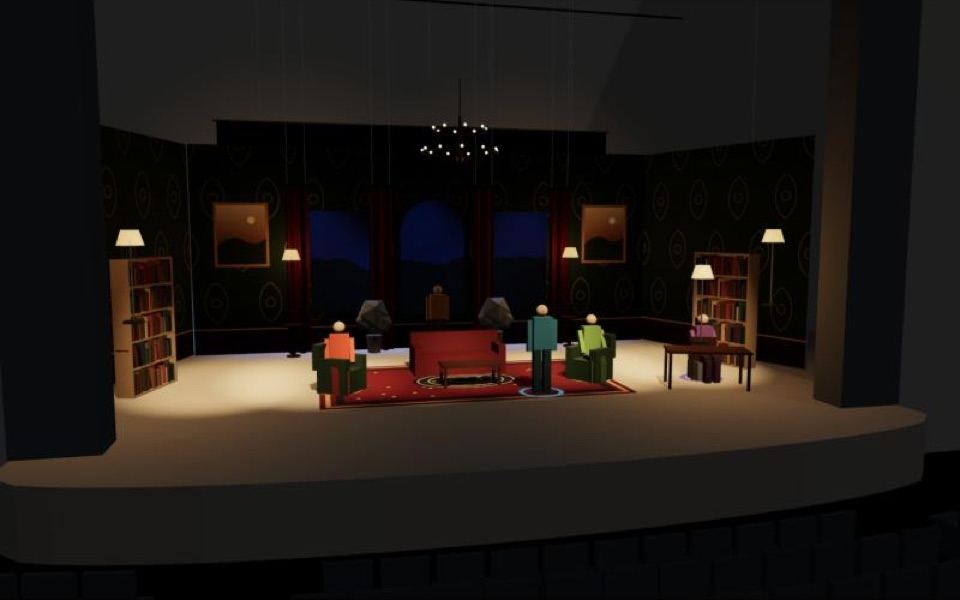
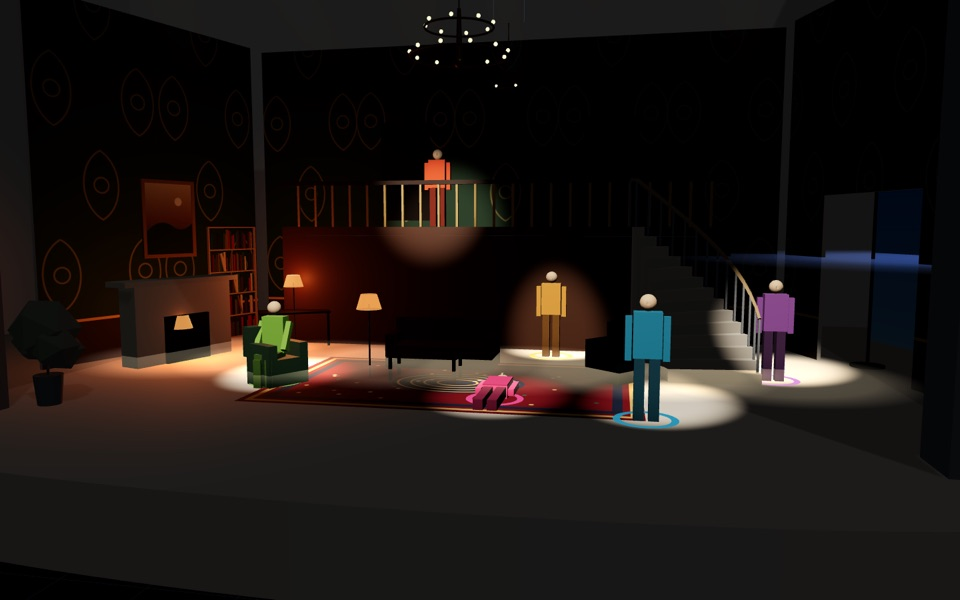
Drawing-room drama becomes a country-house mystery: a gallery and grand stair, a working fire, French windows onto a storm, a body on the rug and four lighting looks. Every performer has their own light so the whole cast reads in every look. New template and landing pictures. The bottom bar's labels

diff --git a/src/starters/showcase.ts b/src/starters/showcase.ts
@@ -15,6 +15,7 @@ import type { FixtureType, Fixture, Vec3 } from '../lighting/types';
 import { blockingActions } from '../blocking/actions';
 import { useBlockingUI } from '../blocking/ui';
 import { useLightsUI } from '../lighting/ui';
+import { aimPoints } from '../lighting/follow';
 import type { ArtKey } from './showcaseArt';
 
 /** Graphic ids for the artwork a showcase asked for. */
@@ -93,6 +94,15 @@ function looks(showName: string) {
   }
   fadeTo(showLook, 0);
   useLightsUI.getState().select(null);
+}
+
+/** Set groups of lights to a state, then keep it as a named look. */
+function stateLook(name: string, groups: [(string | undefined)[], Partial<Fixture>][]) {
+  for (const [ids, change] of groups) {
+    const list = ids.filter((id): id is string => !!id);
+    if (list.length) lightActions.patch(list, change);
+  }
+  return lookActions.save(name);
 }
 
 const ROW = <T,>(n: number, f: (i: number) => T) => Array.from({ length: n }, (_, i) => f(i));
@@ -295,54 +305,89 @@ const sea: ShowcaseScene = {
 const drawingRoom: ShowcaseScene = {
   id: 'drawing-room',
   title: 'Drawing-room drama',
-  blurb: 'A box set in damask wallpaper: bookshelves, chandelier, Chesterfield, a Persian rug, working lamps and moonlit windows.',
+  blurb: 'A country-house mystery: a gallery and grand stair, a fire in the grate, a storm at the windows and four lighting looks.',
   image: '/starters/drawing-room.jpg',
   templateId: 'proscenium',
   preset: 'City theatre',
   params: { rows: 18, balcony: false, pit: false },
-  art: ['damask', 'rug', 'landscape', 'garden'],
+  art: ['damask', 'rug', 'landscape', 'sky', 'clock'],
   build: (g) => {
     lightActions.ensureReady();
-    const walls: string[] = [];
-    const back: [number, string, Params][] = [
-      [-4.8, 'flat', { width: 2.4 }],
-      [-2.4, 'flat-opening', { width: 2.4, openingType: 'window', openingWidth: 1.5, openingHeight: 2.6, openingOffset: 1 }],
-      [0, 'flat-opening', { width: 2.4, openingType: 'arch', openingWidth: 1.7, openingHeight: 3 }],
-      [2.4, 'flat-opening', { width: 2.4, openingType: 'window', openingWidth: 1.5, openingHeight: 2.6, openingOffset: 1 }],
-      [4.8, 'flat', { width: 2.4 }],
-    ];
-    for (const [x, type, p] of back) walls.push(put(type, x, -8, { ...p, height: 5.2, brace: false }, 'Back wall'));
-    for (const id of walls) show({ objectId: id, face: 'front' }, g.damask);
-    for (const sx of [-1, 1]) {
-      const run = put('wall-run', sx * 6.9, -5.6, { panels: 2, panelWidth: 2.6, height: 5.2 }, sx < 0 ? 'Wall SR' : 'Wall SL', sx * -72);
-      for (const face of ['panel-1-front', 'panel-2-front', 'panel-1-back', 'panel-2-back']) show({ objectId: run, face }, g.damask);
-    }
-    show({ objectId: put('floor-decal', 0, -3.6, { width: 6, depth: 3.8 }, 'Rug'), face: 'graphic' }, g.rug);
-    paint(put('sofa', 0, -4.6, {}, 'Chesterfield'), '#6a1a20');
-    paint(put('chair', -2.6, -3.2, { style: 'armchair' }, 'Armchair SR', 55), '#2f4a3a');
-    paint(put('chair', 2.6, -3.2, { style: 'armchair' }, 'Armchair SL', -55), '#2f4a3a');
-    paint(put('table', 0, -3.2, { shape: 'rect', width: 1.2, depth: 0.6, height: 0.45 }, 'Coffee table'), '#4a2c18');
-    paint(put('table', 4.6, -2.0, { shape: 'rect', width: 1.6, depth: 0.8, height: 0.76 }, 'Desk', -20), '#4a2c18');
-    paint(put('chair', 4.9, -2.7, {}, 'Desk chair', 160), '#4a2c18');
-    for (const sx of [-1, 1]) {
-      put('bookshelf', sx * 6.3, -4.2, { width: 1.6, height: 2.6 }, 'Bookshelf', sx * -72);
-      put('bookshelf', sx * 6.9, -6.4, { width: 1.6, height: 2.6 }, 'Bookshelf', sx * -72);
-      paint(put('table', sx * 3.6, -7.3, { shape: 'round', diameter: 0.5, height: 0.8 }, 'Lamp table'), '#4a2c18');
-      put('plant', sx * 1.6, -7.5, { height: 1.4 }, 'Palm');
-      show({ objectId: put('picture-frame', sx * 4.8, -7.92, { width: 1.3, height: 1.6, hangHeight: 2.2 }, 'Portrait'), face: 'picture' }, g.landscape);
-    }
-    put('chandelier', 0, -4.2, { diameter: 1.6, tiers: 2 }, 'Chandelier', 0, 4.6);
-    show({ objectId: put('backdrop', 0, -9.6, { width: 11, height: 6 }, 'Garden backing'), face: 'front' }, g.garden);
-    for (const wx of [-2.4, 2.4]) for (const sx of [-1, 1]) put('leg', wx + sx * 1.05, -7.8, { width: 0.55, height: 4.2, color: '#6a1018' }, 'Window curtain');
+    const wood = '#3a2214';
+    // Back wall: two upper doors onto the gallery, the hall door below
+    const back = (x: number, type: string, p: Params) => show({ objectId: put(type, x, -8.6, { ...p, height: 6.8, brace: false }, 'Back wall'), face: 'front' }, g.damask);
+    back(-4.8, 'flat', { width: 2.4 });
+    back(-2.4, 'flat-opening', { width: 2.4, openingType: 'window', openingWidth: 1.2, openingHeight: 2.3, openingOffset: 2.75 });
+    back(0, 'flat-opening', { width: 2.4, openingType: 'door', openingWidth: 1.7, openingHeight: 2.4 });
+    back(2.4, 'flat-opening', { width: 2.4, openingType: 'window', openingWidth: 1.2, openingHeight: 2.3, openingOffset: 2.75 });
+    back(4.8, 'flat', { width: 2.4 });
+    paint(put('flat', 0, -9.3, { width: 9.6, height: 6.8, brace: false }, 'Hall backing'), '#1c1410', 0.9);
+    put('chandelier', 0, -8.95, { diameter: 0.9, tiers: 1 }, 'Hall lantern', 0, 5.6);
+    // The gallery landing with its balustrade, and the grand stair up to it
+    paint(put('platform', 0, -7.75, { width: 9.6, depth: 1.6, heightPreset: 'custom', customHeight: 2.6 }, 'Gallery'), '#5a3826');
+    paint(put('box', 0, -6.98, { width: 9.6, depth: 0.1, height: 0.09 }, 'Gallery rail', 0, 3.5), wood);
+    ROW(23, (i) => paint(put('box', -4.4 + i * 0.4, -6.98, { width: 0.05, depth: 0.05, height: 0.9 }, 'Baluster', 0, 2.6), '#c9a25a'));
+    put('staircase', 3.9, -5.2, { kind: 'curved', width: 1.5, steps: 14, totalHeight: 2.6, railing: true }, 'Grand stair');
+    // Stage right: the fireplace wall. Stage left: French windows onto the storm.
+    const sr = put('wall-run', -6.9, -5.6, { panels: 2, panelWidth: 2.6, height: 6.8 }, 'Wall SR', 72);
+    for (const face of ['panel-1-front', 'panel-2-front']) show({ objectId: sr, face }, g.damask);
+    paint(put('box', -5.9, -4.6, { width: 2.2, depth: 0.45, height: 1.5 }, 'Fireplace', 72), '#e6dccb', 0.3);
+    paint(put('box', -5.72, -4.54, { width: 1.0, depth: 0.2, height: 0.9 }, 'Firebox', 72), '#140c08');
+    paint(put('box', -5.92, -4.6, { width: 2.6, depth: 0.55, height: 0.1 }, 'Mantel', 72, 1.5), '#e6dccb', 0.3);
+    show({ objectId: put('picture-frame', -6.05, -4.66, { width: 1.2, height: 1.5, hangHeight: 2.0 }, 'Portrait of the late Lord', 72), face: 'picture' }, g.landscape);
+    show({ objectId: put('flat-opening', 6.9, -5.6, { width: 5.2, height: 6.8, openingType: 'door', openingWidth: 2.6, openingHeight: 3.2, brace: false }, 'French windows', -72), face: 'front' }, g.damask);
+    show({ objectId: put('backdrop', 9.4, -6.4, { width: 7, height: 6 }, 'Storm sky', -72), face: 'front' }, g.sky);
+    // The room
+    show({ objectId: put('floor-decal', 0, -3.4, { width: 6, depth: 3.8 }, 'Rug'), face: 'graphic' }, g.rug);
+    paint(put('sofa', -0.6, -4.9, {}, 'Chesterfield'), '#5a141a');
+    paint(put('chair', -3.0, -2.9, { style: 'armchair' }, 'Armchair', 60), '#2b4434');
+    paint(put('chair', 2.6, -4.2, { style: 'armchair' }, 'Armchair', -40), '#2b4434');
+    paint(put('table', -0.6, -3.6, { shape: 'rect', width: 1.2, depth: 0.6, height: 0.45 }, 'Coffee table'), wood);
+    paint(put('table', -4.4, -6.6, { shape: 'rect', width: 1.5, depth: 0.7, height: 0.76 }, 'Writing desk', 30), wood);
+    paint(put('box', -2.2, -8.2, { width: 0.55, depth: 0.4, height: 2.2 }, 'Grandfather clock'), wood, 0.35);
+    show({ objectId: put('picture-frame', -2.2, -7.98, { width: 0.42, height: 0.42, hangHeight: 1.55 }, 'Clock face'), face: 'picture' }, g.clock);
+    put('bookshelf', -6.4, -7.4, { width: 1.4, height: 2.6 }, 'Bookshelf', 72);
+    put('plant', -5.6, -0.9, { height: 1.6 }, 'Palm');
+    put('chandelier', 0, -3.6, { diameter: 1.6, tiers: 2 }, 'Chandelier', 0, 5.2);
 
-    ROW(6, (i) => light('fresnel', [(-6 + i * 2.4) * 0.7, 9.5, 4], { color: '#ffc98a', intensity: 75, beam: 22, target: [-5 + i * 2, 1.2, -4] }));
-    for (const sx of [-1, 1]) light('profile', [sx * 2.4, 4, -11], { color: '#9ec4ff', intensity: 100, beam: 16, target: [sx * 1.4, 1, -3] });
-    light('fresnel', [0, 4, -11], { color: '#ffb060', intensity: 80, target: [0, 1.5, -8.5] });
-    for (const [x, z, y] of [[-3.6, -7.3, 2.1], [3.6, -7.3, 2.1], [4.4, -1.9, 1.9], [-6, -2, 2.6], [6, -2, 2.6]]) light('practical', [x, y, z], { color: '#ffb35c', intensity: 70 }, true);
-    for (const sx of [-1, 0, 1]) light('cyc', [sx * 3, 5.6, -8.5], { color: '#6f8fd8', intensity: 100, target: [sx * 3, 3, -9.6] });
-    lightActions.setHaze({ on: true, density: 12 });
-    cast([['Lady Ashford', -2.6, -3.2], ['Inspector', 1.2, -2.2], ['Colonel', 2.6, -3.2], ['Maid', 0, -7.2], ['Nephew', 4.9, -2.7]], ['Lady Ashford', 'Colonel', 'Nephew']);
-    looks('Evening, lamps lit');
+    // The cast: Sir Hugo lies dead on the rug
+    cast(
+      [['Lady Ashford', -1.4, -7.7], ['Inspector', 3.0, -1.6], ['Colonel', -3.0, -2.9], ['Maid', 1.3, -6.2], ['Nephew', 5.2, -4.6], ['Sir Hugo', 0.8, -2.4]],
+      ['Colonel'],
+    );
+    const people = state().blockingByTemplate[state().templateId]?.performers ?? [];
+    const hugo = people.find((p) => p.name === 'Sir Hugo');
+    if (hugo) blockingActions.patchPerformers([hugo.id], { posture: 'lying' });
+
+    // Lights: room, gallery, practicals, moonlight, storm sky, lightning, the torch,
+    // and a soft light following each performer so everyone reads in every look.
+    const wash = ROW(6, (i) => light('fresnel', [(-6 + i * 2.4) * 0.7, 9.5, 4], { color: '#ffc98a', intensity: 60, beam: 22, target: [-5 + i * 2, 1.2, -4] }));
+    const gallery = ROW(3, (i) => light('fresnel', [-3 + i * 3, 8.5, -3], { color: '#ffd7a0', intensity: 60, beam: 18, target: [-3 + i * 3, 3.4, -7.7] }));
+    const practicals = [[-5.72, 0.35, -4.4], [-4.4, 1.0, -6.6], [-1.6, 0.9, -3.6]].map(([x, y, z]) => light('practical', [x, y, z], { color: '#ff8a3a', intensity: 80 }, true));
+    const moon = light('profile', [11, 6, -5.2], { color: '#8fb4ff', intensity: 70, beam: 30, gobo: 'window', target: [0.8, 0, -3] });
+    const sky = ROW(2, (i) => light('cyc', [7.8, 6, -3 - i * 3], { color: '#4a6ad8', intensity: 70, target: [9.4, 3, -6.4] }));
+    const lightning = ROW(2, (i) => light('moving', [5 + i * 2, 9, -2], { color: '#eef3ff', intensity: 0, beam: 10, target: [2 - i * 3, 0, -3] }));
+    const aims = aimPoints(0);
+    const keys = people.map((p) => {
+      const at = aims.get(p.id) ?? [0, 1.5, -4];
+      // Up on the gallery: a fixed light at their height (following aims at stage-floor height)
+      if (at[2] < -6.9) return light('fresnel', [at[0], 7.5, 2.5], { color: '#fff0dc', intensity: 95, beam: 16, target: [at[0], 3.9, at[2]], name: `Wash on ${p.name}`, purpose: p.name });
+      return light('fresnel', [at[0] * 0.6, 9, Math.min(4, at[2] + 6)], { color: '#fff0dc', intensity: 85, beam: 14, target: at, follow: p.id, name: `Wash on ${p.name}`, purpose: p.name });
+    });
+    const torch = light('profile', [0, 9, 10], { color: '#ffffff', intensity: 0, beam: 7, target: hugo ? (aims.get(hugo.id) ?? [0.8, 0, -2.4]) : [0.8, 0, -2.4], follow: hugo?.id, name: 'The torch' });
+    lightActions.setHaze({ on: true, density: 22 });
+
+    const evening = stateLook('Evening, lamps lit', [[wash, { intensity: 60, color: '#ffc98a' }], [gallery, { intensity: 45 }], [practicals, { intensity: 80 }], [[moon], { intensity: 45 }], [sky, { intensity: 55, color: '#4a6ad8' }], [lightning, { intensity: 0 }], [keys, { intensity: 85, color: '#fff0dc' }], [[torch], { intensity: 0 }]]);
+    stateLook('The storm breaks', [[wash, { intensity: 15, color: '#a9b8e0' }], [gallery, { intensity: 15 }], [practicals, { intensity: 35 }], [[moon], { intensity: 100 }], [sky, { intensity: 100, color: '#3a5ad8' }], [lightning, { intensity: 100 }], [keys, { intensity: 80, color: '#dbe4ff' }], [[torch], { intensity: 0 }]]);
+    stateLook('Blackout, one torch', [[wash, { intensity: 0 }], [gallery, { intensity: 0 }], [practicals, { intensity: 0 }], [[practicals[0]], { intensity: 45 }], [[moon], { intensity: 25 }], [sky, { intensity: 20 }], [lightning, { intensity: 0 }], [keys, { intensity: 60, color: '#b8c8ff' }], [[torch], { intensity: 100 }]]);
+    stateLook('The accusation', [[wash, { intensity: 30, color: '#ffc98a' }], [gallery, { intensity: 100, color: '#ffe2b8' }], [practicals, { intensity: 60 }], [[moon], { intensity: 60 }], [sky, { intensity: 50 }], [lightning, { intensity: 0 }], [keys, { intensity: 90, color: '#ffe8cc' }], [[torch], { intensity: 55 }]]);
+    const wash2 = PRESET_LOOKS.find((p) => p.name === 'Full stage wash');
+    if (wash2) {
+      fadeTo(wash2.make(lighting().fixtures), 0);
+      lookActions.save(wash2.name);
+    }
+    fadeTo(evening, 0);
+    useLightsUI.getState().select(null);
   },
 };
 

diff --git a/src/styles.css b/src/styles.css
@@ -1225,7 +1225,7 @@ input[type='range'], input[type='checkbox'], input[type='radio'] { accent-color:
 /* Modes, top centre */
 .modes { position: absolute; z-index: 9; top: 16px; left: 50%; transform: translateX(-50%); height: 58px; box-sizing: border-box; border-radius: 18px; display: flex; align-items: center; gap: 4px; padding: 0 7px; background: var(--glass); backdrop-filter: blur(18px); -webkit-backdrop-filter: blur(18px); border: 1px solid var(--border); box-shadow: var(--shadow); }
 .modes__item { display: flex; align-items: center; gap: 4px; }
-.modes__btn { height: 44px; padding: 0 14px; border: 0; border-radius: 13px; background: transparent; color: var(--text); font-size: 14.5px; display: inline-flex; align-items: center; gap: 8px; cursor: pointer; }
+.modes__btn { white-space: nowrap; height: 44px; padding: 0 14px; border: 0; border-radius: 13px; background: transparent; color: var(--text); font-size: 14.5px; display: inline-flex; align-items: center; gap: 8px; cursor: pointer; }
 .modes__btn:hover { background: var(--hover); }
 .modes__btn.is-active { background: var(--accent-soft); color: var(--hi-text); font-weight: 500; }
 .modes__btn--quiet { color: var(--muted); }
